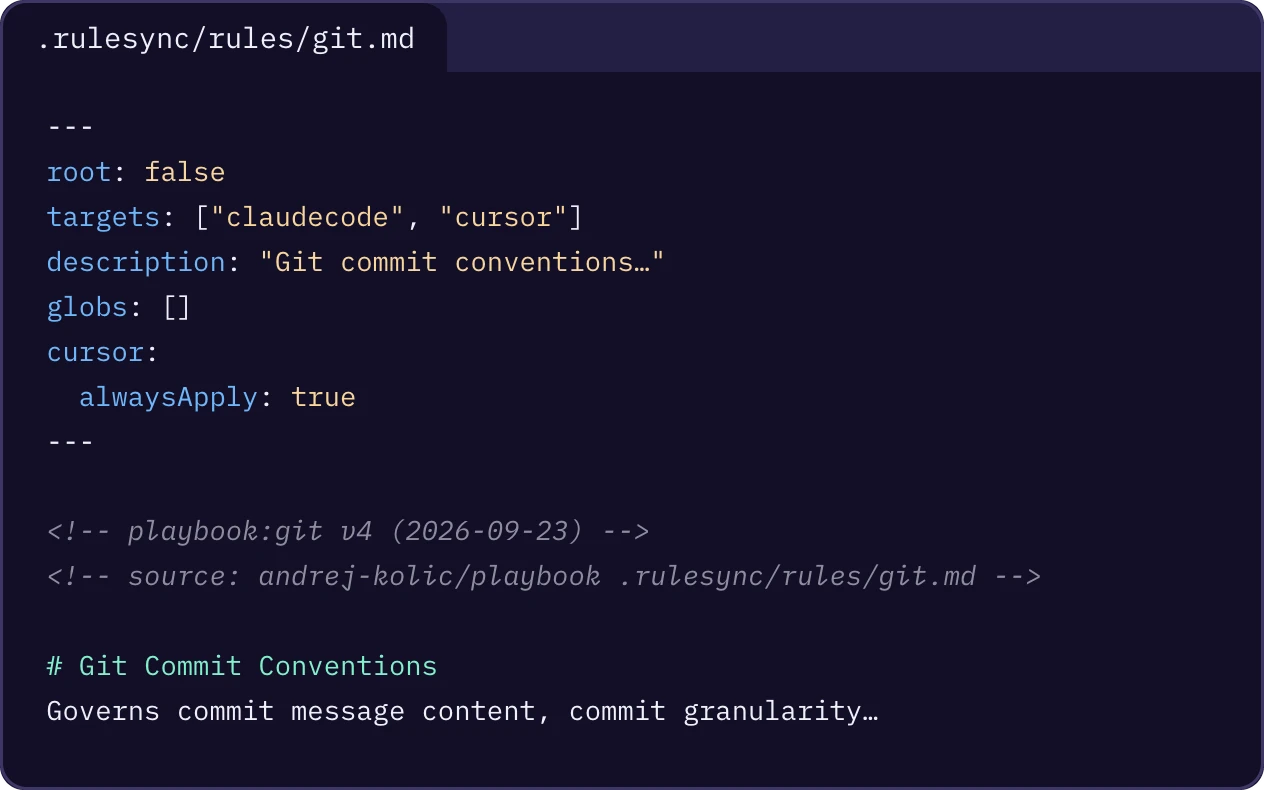
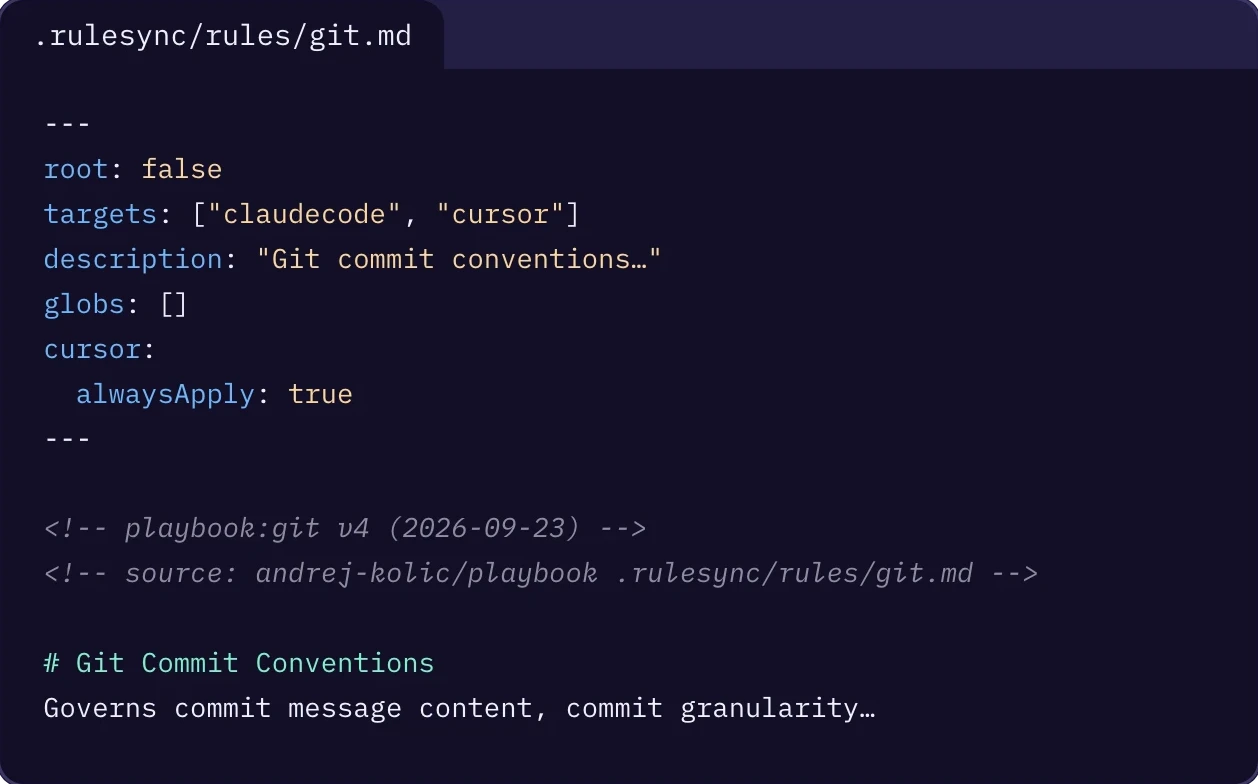
feat(web): add the usage-bar project page (#43)

diff --git a/apps/web/src/content.config.ts b/apps/web/src/content.config.ts
@@ -57,6 +57,12 @@ const projects = defineCollection({
      */
     logoFit: z.object({ height: z.number(), drop: z.number() }).optional(),
     /**
+     * Draws a 1px border round a logo that is a dark tile, which otherwise
+     * melts into the page. The value is the tile's corner radius as a share
+     * of its width (an SVG's `rx` over its width), so the border follows it.
+     */
+    logoFrame: z.number().optional(),
+    /**
      * The link-preview image (Open Graph `og:image`) for the project page —
      * what Slack, Discord, WhatsApp and LinkedIn show when the link is
      * pasted. JPG under ~300 KB: WhatsApp drops larger previews.

diff --git a/apps/web/src/styles/global.css b/apps/web/src/styles/global.css
@@ -849,6 +849,13 @@
   & .expressive-code {
     margin-block: 1.75em;
   }
+
+  /* A screenshot whose own background matches the page's gets the code
+     blocks' frame (astro.config.ts), so its edge shows. */
+  & img.framed {
+    border: 1px solid var(--lab-border);
+    border-radius: 0.75rem;
+  }
 }
 
 /* A code block standing in for a project's screenshot takes the
